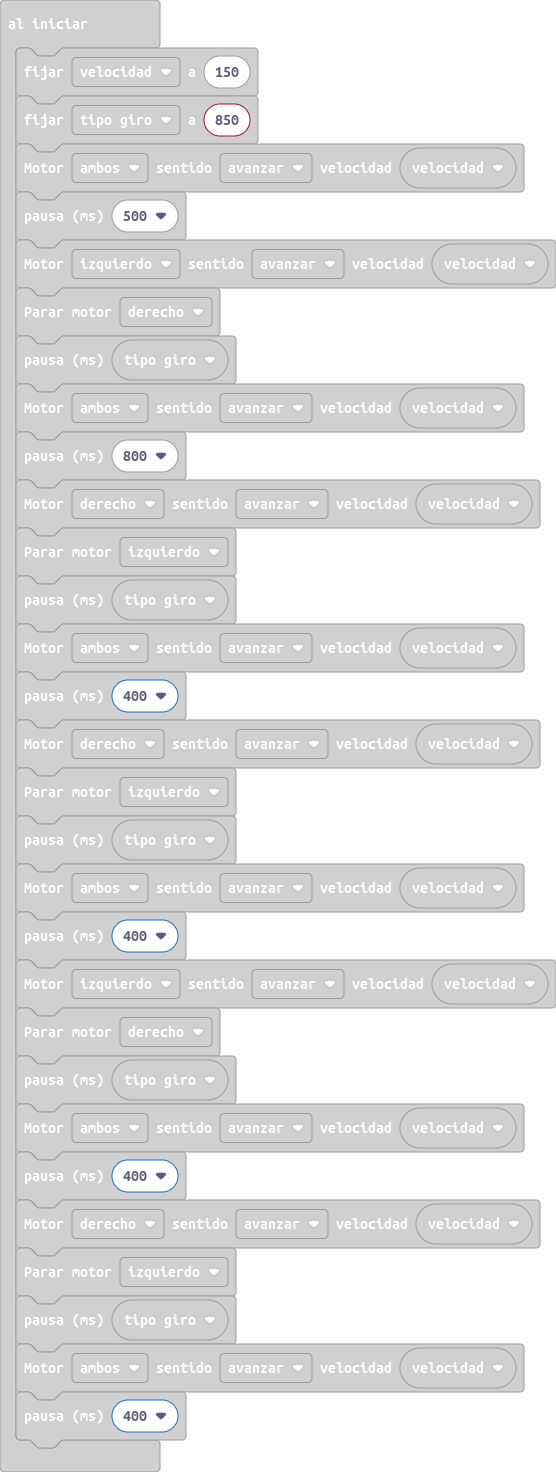
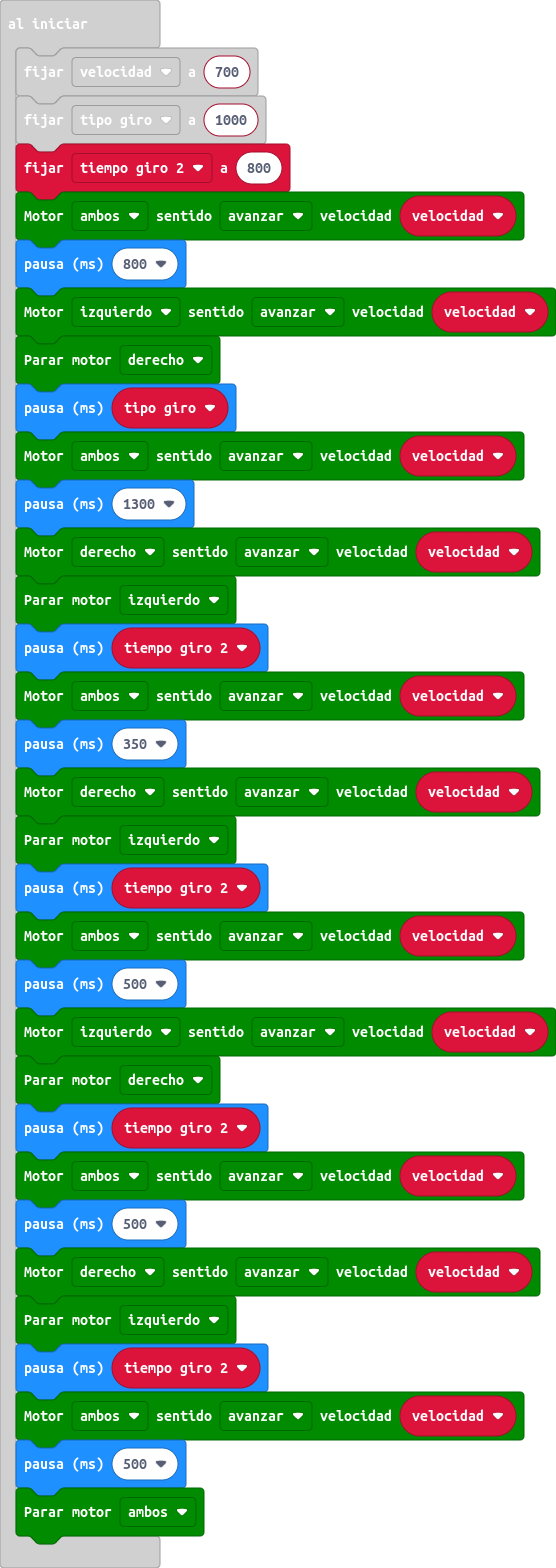
Actualizar main.blocks, main.ts

diff --git a/main.ts b/main.ts
@@ -1,32 +1,34 @@
-let velocidad = 150
-let tipo_giro = 850
+let velocidad = 700
+let tipo_giro = 1000
+let tiempo_giro_2 = 800
+maqueen.motorRun(maqueen.Motors.All, maqueen.Dir.CW, velocidad)
+basic.pause(800)
+maqueen.motorRun(maqueen.Motors.M1, maqueen.Dir.CW, velocidad)
+maqueen.motorStop(maqueen.Motors.M2)
+basic.pause(tipo_giro)
+maqueen.motorRun(maqueen.Motors.All, maqueen.Dir.CW, velocidad)
+basic.pause(1300)
+maqueen.motorRun(maqueen.Motors.M2, maqueen.Dir.CW, velocidad)
+maqueen.motorStop(maqueen.Motors.M1)
+basic.pause(tiempo_giro_2)
+maqueen.motorRun(maqueen.Motors.All, maqueen.Dir.CW, velocidad)
+basic.pause(350)
+maqueen.motorRun(maqueen.Motors.M2, maqueen.Dir.CW, velocidad)
+maqueen.motorStop(maqueen.Motors.M1)
+basic.pause(tiempo_giro_2)
 maqueen.motorRun(maqueen.Motors.All, maqueen.Dir.CW, velocidad)
 basic.pause(500)
 maqueen.motorRun(maqueen.Motors.M1, maqueen.Dir.CW, velocidad)
 maqueen.motorStop(maqueen.Motors.M2)
-basic.pause(tipo_giro)
+basic.pause(tiempo_giro_2)
 maqueen.motorRun(maqueen.Motors.All, maqueen.Dir.CW, velocidad)
-basic.pause(800)
+basic.pause(500)
 maqueen.motorRun(maqueen.Motors.M2, maqueen.Dir.CW, velocidad)
 maqueen.motorStop(maqueen.Motors.M1)
-basic.pause(tipo_giro)
+basic.pause(tiempo_giro_2)
 maqueen.motorRun(maqueen.Motors.All, maqueen.Dir.CW, velocidad)
-basic.pause(400)
-maqueen.motorRun(maqueen.Motors.M2, maqueen.Dir.CW, velocidad)
-maqueen.motorStop(maqueen.Motors.M1)
-basic.pause(tipo_giro)
-maqueen.motorRun(maqueen.Motors.All, maqueen.Dir.CW, velocidad)
-basic.pause(400)
-maqueen.motorRun(maqueen.Motors.M1, maqueen.Dir.CW, velocidad)
-maqueen.motorStop(maqueen.Motors.M2)
-basic.pause(tipo_giro)
-maqueen.motorRun(maqueen.Motors.All, maqueen.Dir.CW, velocidad)
-basic.pause(400)
-maqueen.motorRun(maqueen.Motors.M2, maqueen.Dir.CW, velocidad)
-maqueen.motorStop(maqueen.Motors.M1)
-basic.pause(tipo_giro)
-maqueen.motorRun(maqueen.Motors.All, maqueen.Dir.CW, velocidad)
-basic.pause(400)
+basic.pause(500)
+maqueen.motorStop(maqueen.Motors.All)
 basic.forever(function () {
 	
 })
